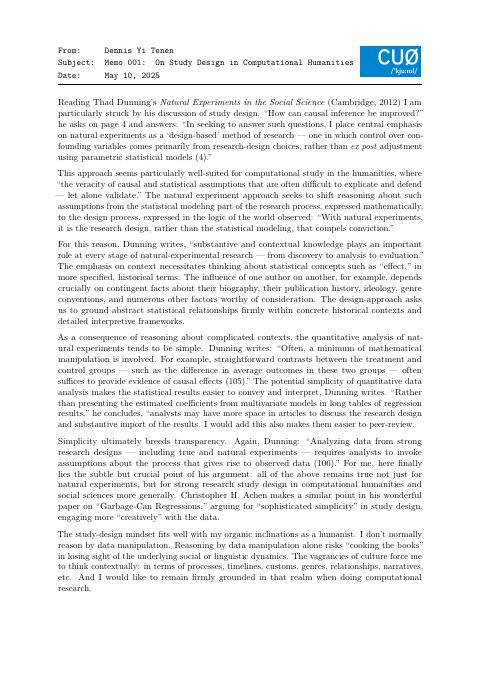
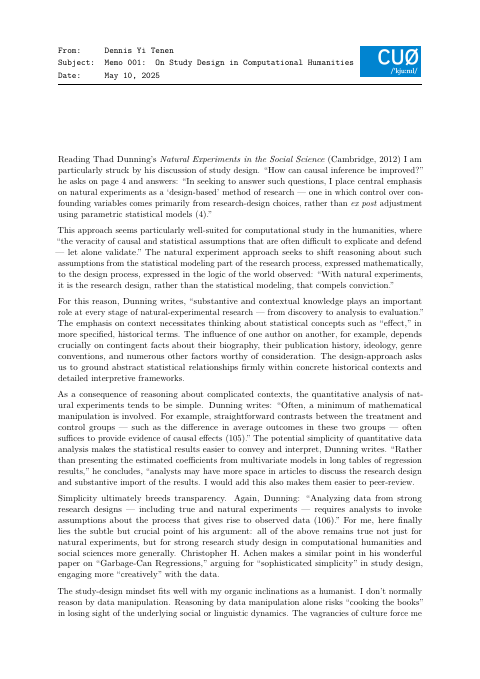
memo 001: start the text lower so the sign-off page carries some text

Changed region(s): [[0.125, 0.1237, 0.875, 0.9278]]

diff --git a/collections/_memos/1-study-design.md b/collections/_memos/1-study-design.md
@@ -18,6 +18,8 @@ header-includes: |
   \memologo{\includegraphics[width=0.3\textwidth]{assets/cunil-logo.png}}
 ---
 
+\vspace*{2.5cm}
+
 Reading Thad Dunning's *Natural Experiments in the Social Science* (Cambridge, 2012) I am
 particularly struck by his discussion of study design. "How can causal inference be improved?"
 he asks on page 4 and answers: "In seeking to answer such questions, I place central emphasis
